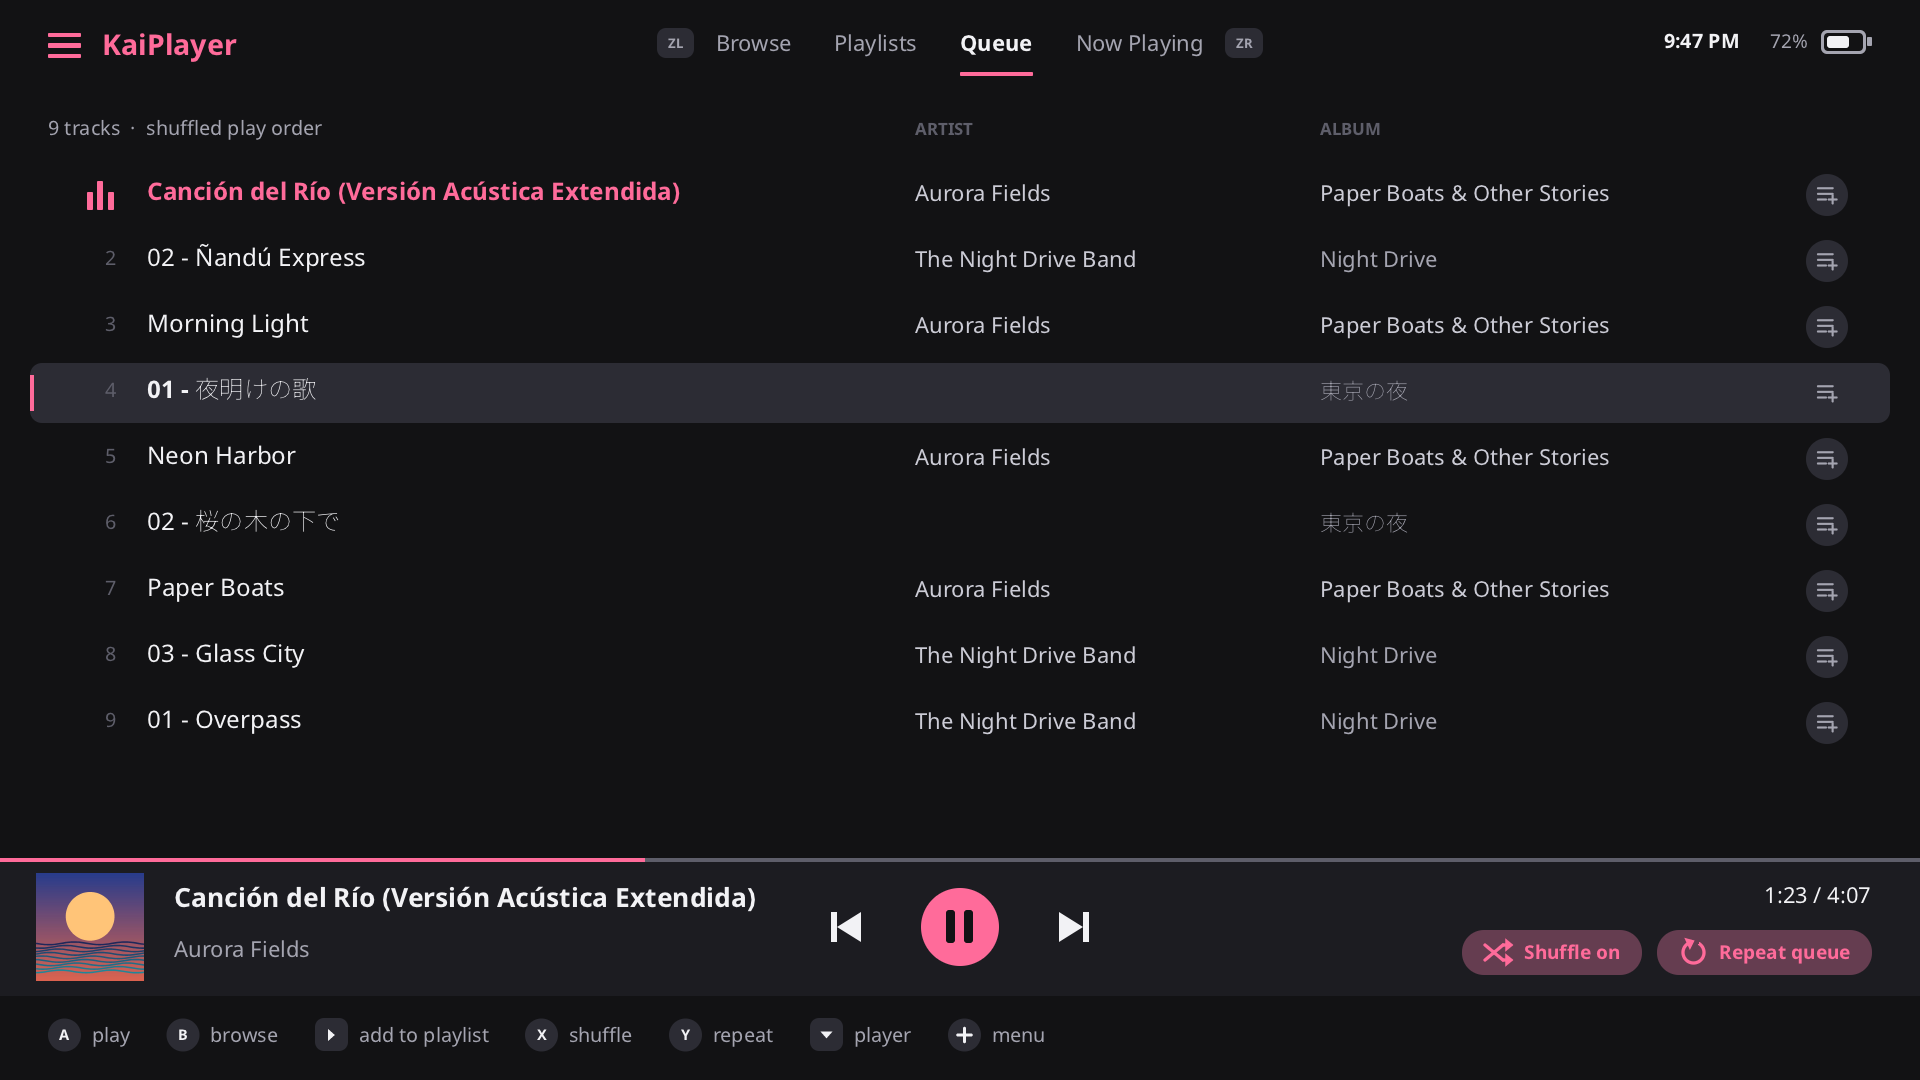
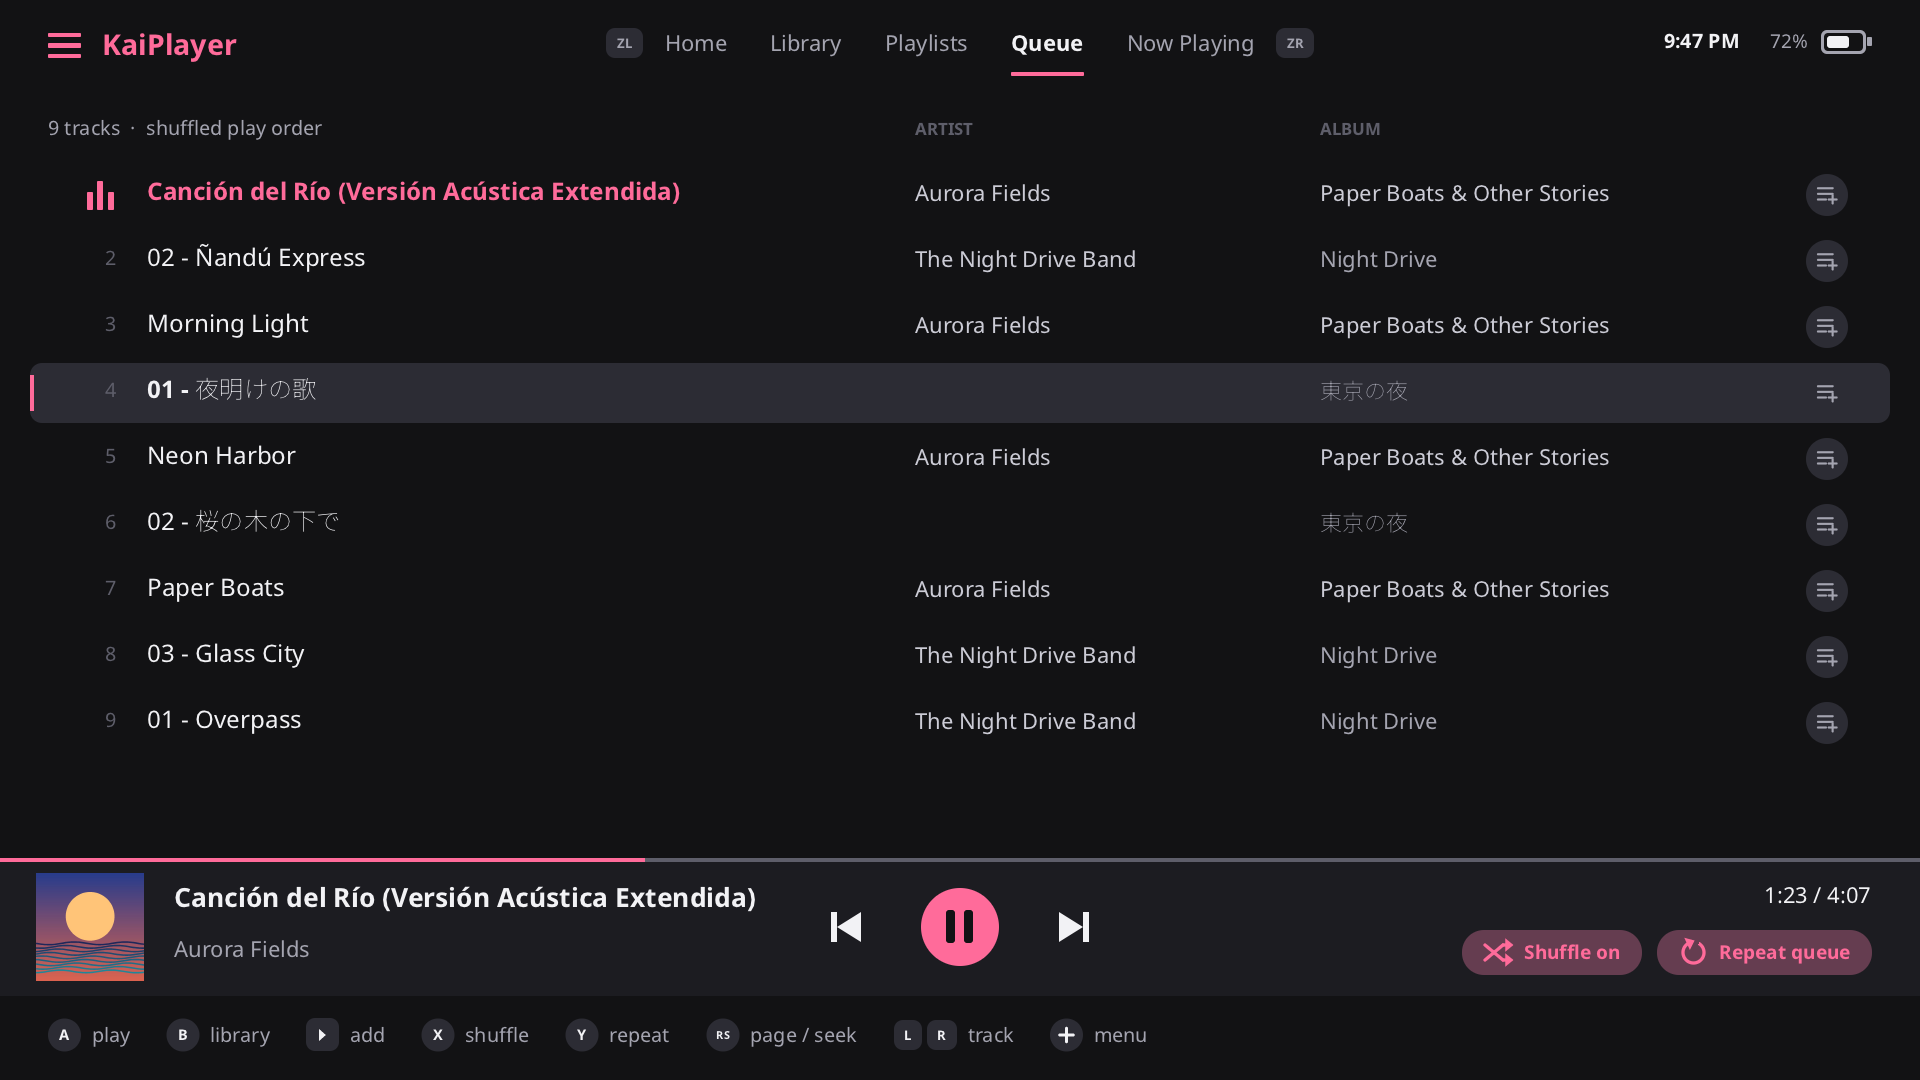
docs: v0.7 screenshots (Home, Library), KaiDrop and how tags carry the real names

Changed region(s): [[0.0938, 0.9472, 0.5938, 0.9778], [0.3125, 0.0306, 0.6875, 0.0917]]

diff --git a/README.md b/README.md
@@ -2,13 +2,14 @@
 
 An **open-source homebrew music player** for **Switch 2** running
 [kaiHEN](https://github.com/ouncebrew/kaihen). Pick a folder on your microSD
-card and KaiPlayer plays the music in it.
+card and KaiPlayer builds a library of your artists, albums and songs from
+their tags.
 
-![Now Playing](docs/screenshots/now_playing.png)
+![Home](docs/screenshots/home.png)
 
-| Library | Playlists | Queue |
-|--------|-----------|-------|
-| ![Library](docs/screenshots/browse.png) | ![Playlists](docs/screenshots/playlists.png) | ![Queue](docs/screenshots/queue.png) |
+| Now Playing | Library | Queue |
+|-------------|---------|-------|
+| ![Now Playing](docs/screenshots/now_playing.png) | ![Library](docs/screenshots/library.png) | ![Queue](docs/screenshots/queue.png) |
 
 > KaiPlayer is an independent project. It is not affiliated with, endorsed by
 > or sponsored by Nintendo. See the [Legal notice](#legal-notice).
@@ -75,12 +76,14 @@ let it replace the old one.
 
 > **Use plain letters (A–Z, no accents) in file and folder names.** On
 > Switch 2, a file or folder whose name has any character outside basic
-> ASCII (accents such as `á é ñ ü`, or Japanese) is saved, but no app can
-> list it, KaiPlayer included. Rename such files on your PC before uploading
-> them, for example `06 Canción.mp3` → `06 Cancion.mp3` or
-> `04 みずいろの雨.mp3` → `04 Mizuiro no Ame.mp3`. KaiPlayer still shows the
-> song's real title, artist and album, with accents or in Japanese, from its
-> tags. See
+> ASCII (accents such as `á é ñ ü`, typographic quotes such as `’`, or
+> Japanese) is saved, but the console's file system doesn't show it: no app
+> can list it, KaiPlayer included. The easiest way around it is
+> [KaiDrop](https://github.com/mizuiroame/kaidrop) (work in progress), which
+> uploads your music over FTP with plain names on the console and leaves your
+> files untouched. Or rename the files before uploading, for example
+> `06 Canción.mp3` → `06 Cancion.mp3`. KaiPlayer still shows the song's real
+> title, artist and album, with accents or in Japanese, from its tags. See
 > [File names and tags](#file-names-and-tags).
 
 ### 4. Play it
@@ -402,19 +405,27 @@ Text in tags and file names can be in any language:
 **File and folder names, however, must use plain ASCII letters.** This is a
 limitation of the console, not of KaiPlayer: on Switch 2, a file or folder
 whose name has any non-ASCII character (accented letters such as á, é, ñ or
-ü, or Japanese) is written correctly, but directory listings leave it out.
-FTP listings, OunceShell and KaiPlayer all list folders the same way, so the
-file is invisible in all of them, even though it is on the card.
+ü, typographic quotes such as ’, or Japanese) is written correctly, but the
+console's file system leaves it out of the folder: it isn't listed, and it
+isn't even counted among the folder's entries. FTP listings, OunceShell and
+KaiPlayer all see folders through it, so the file is invisible in all of
+them, even though it is on the card and takes up space. No app on the
+console can find it, so the fix has to happen before the file gets there.
 
-Because KaiPlayer shows the title, artist and album from the tags, the file
-name doesn't matter much. A file renamed `04 Mizuiro no Ame.mp3` is still
-shown as **みずいろの雨 · 八神純子 · 素顔の私** in Now Playing, with its
-embedded cover.
+**Tags carry the real names.** KaiPlayer takes each song's title, artist and
+album from its tags (ID3 in MP3, Vorbis comments in FLAC and Ogg), not from
+the file name, and tags can hold any language. A file renamed
+`04 Mizuiro no Ame.mp3` is still shown as **みずいろの雨 · 八神純子 · 素顔の私**,
+with its embedded cover, and `06 Cancion.flac` as **Canción**. Make sure your
+songs are tagged (most music from stores or ripped with a good tool is): a
+song without tags shows its file name, and is grouped by its folders, so with
+a plain file name it shows without its accents.
 
 **Upload with plain names, without renaming your files.** FileZilla can't
-rename files as it uploads them. Use [KaiDrop](https://github.com/mizuiroame/kaidrop),
-a small Windows app (also runs on macOS and Linux) that sends folders over FTP
-and gives the copies on the console plain names, with a preview of every name.
+rename files as it uploads them. Use [KaiDrop](https://github.com/mizuiroame/kaidrop)
+(work in progress), a small Windows app (also runs on macOS and Linux) that
+sends folders over FTP and gives the copies on the console plain names, with
+a preview of every name.
 Or, from the command line, the repository includes a small script,
 [`tools/kaiupload.py`](tools/kaiupload.py) (Python 3.8 or later, nothing to
 install). It uploads a folder over FTP and gives the copies on the console
